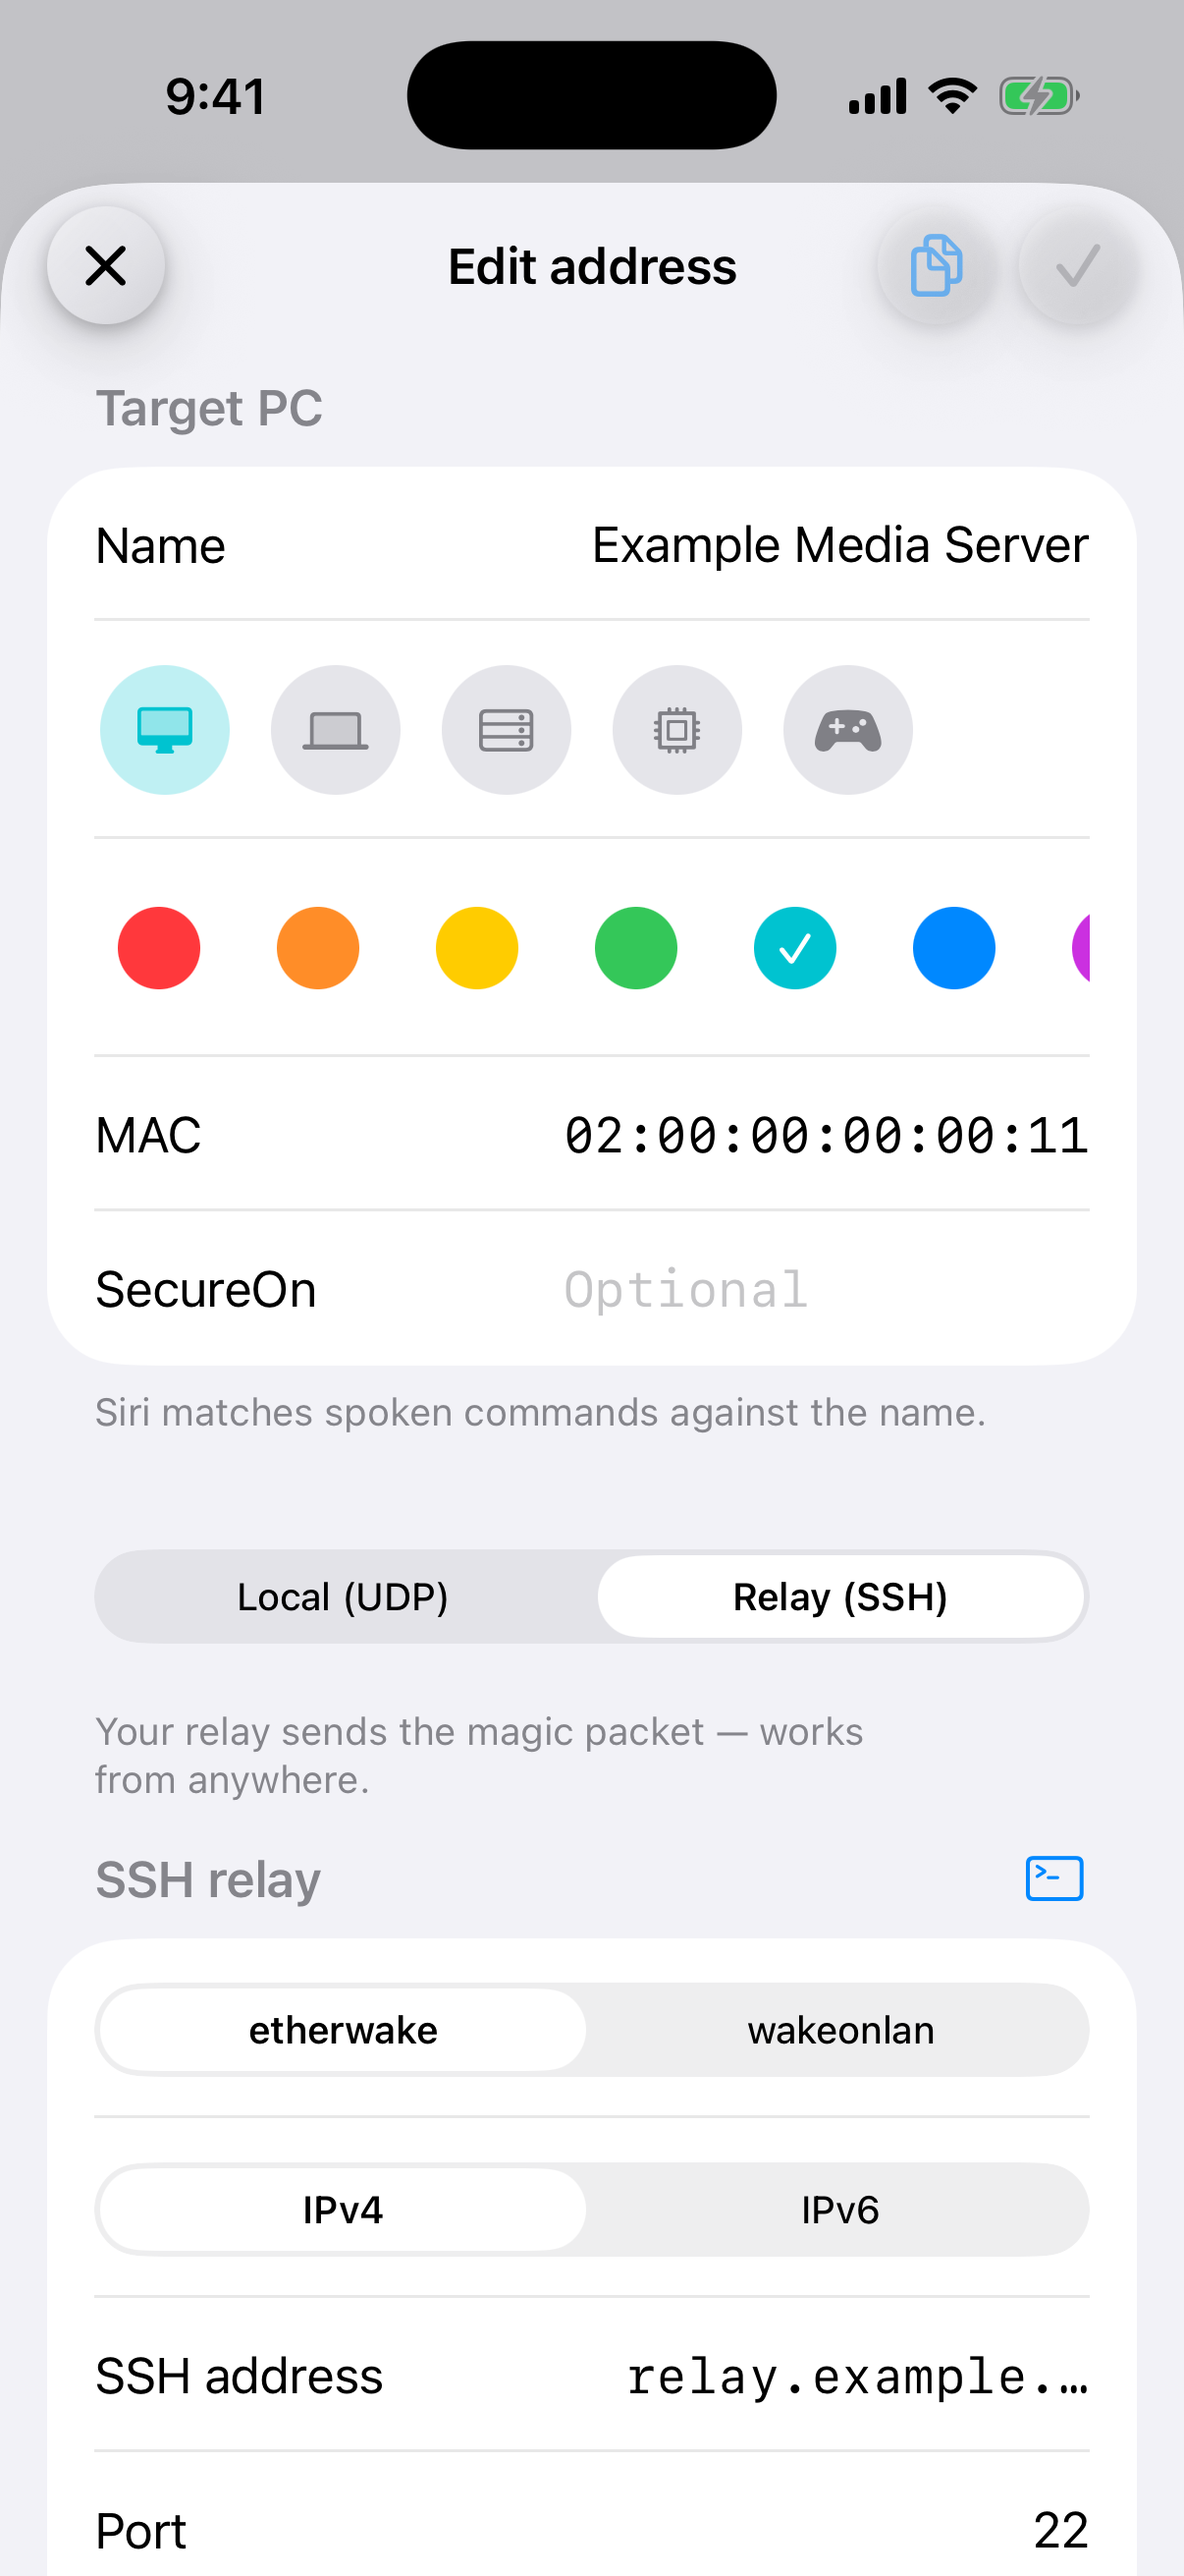
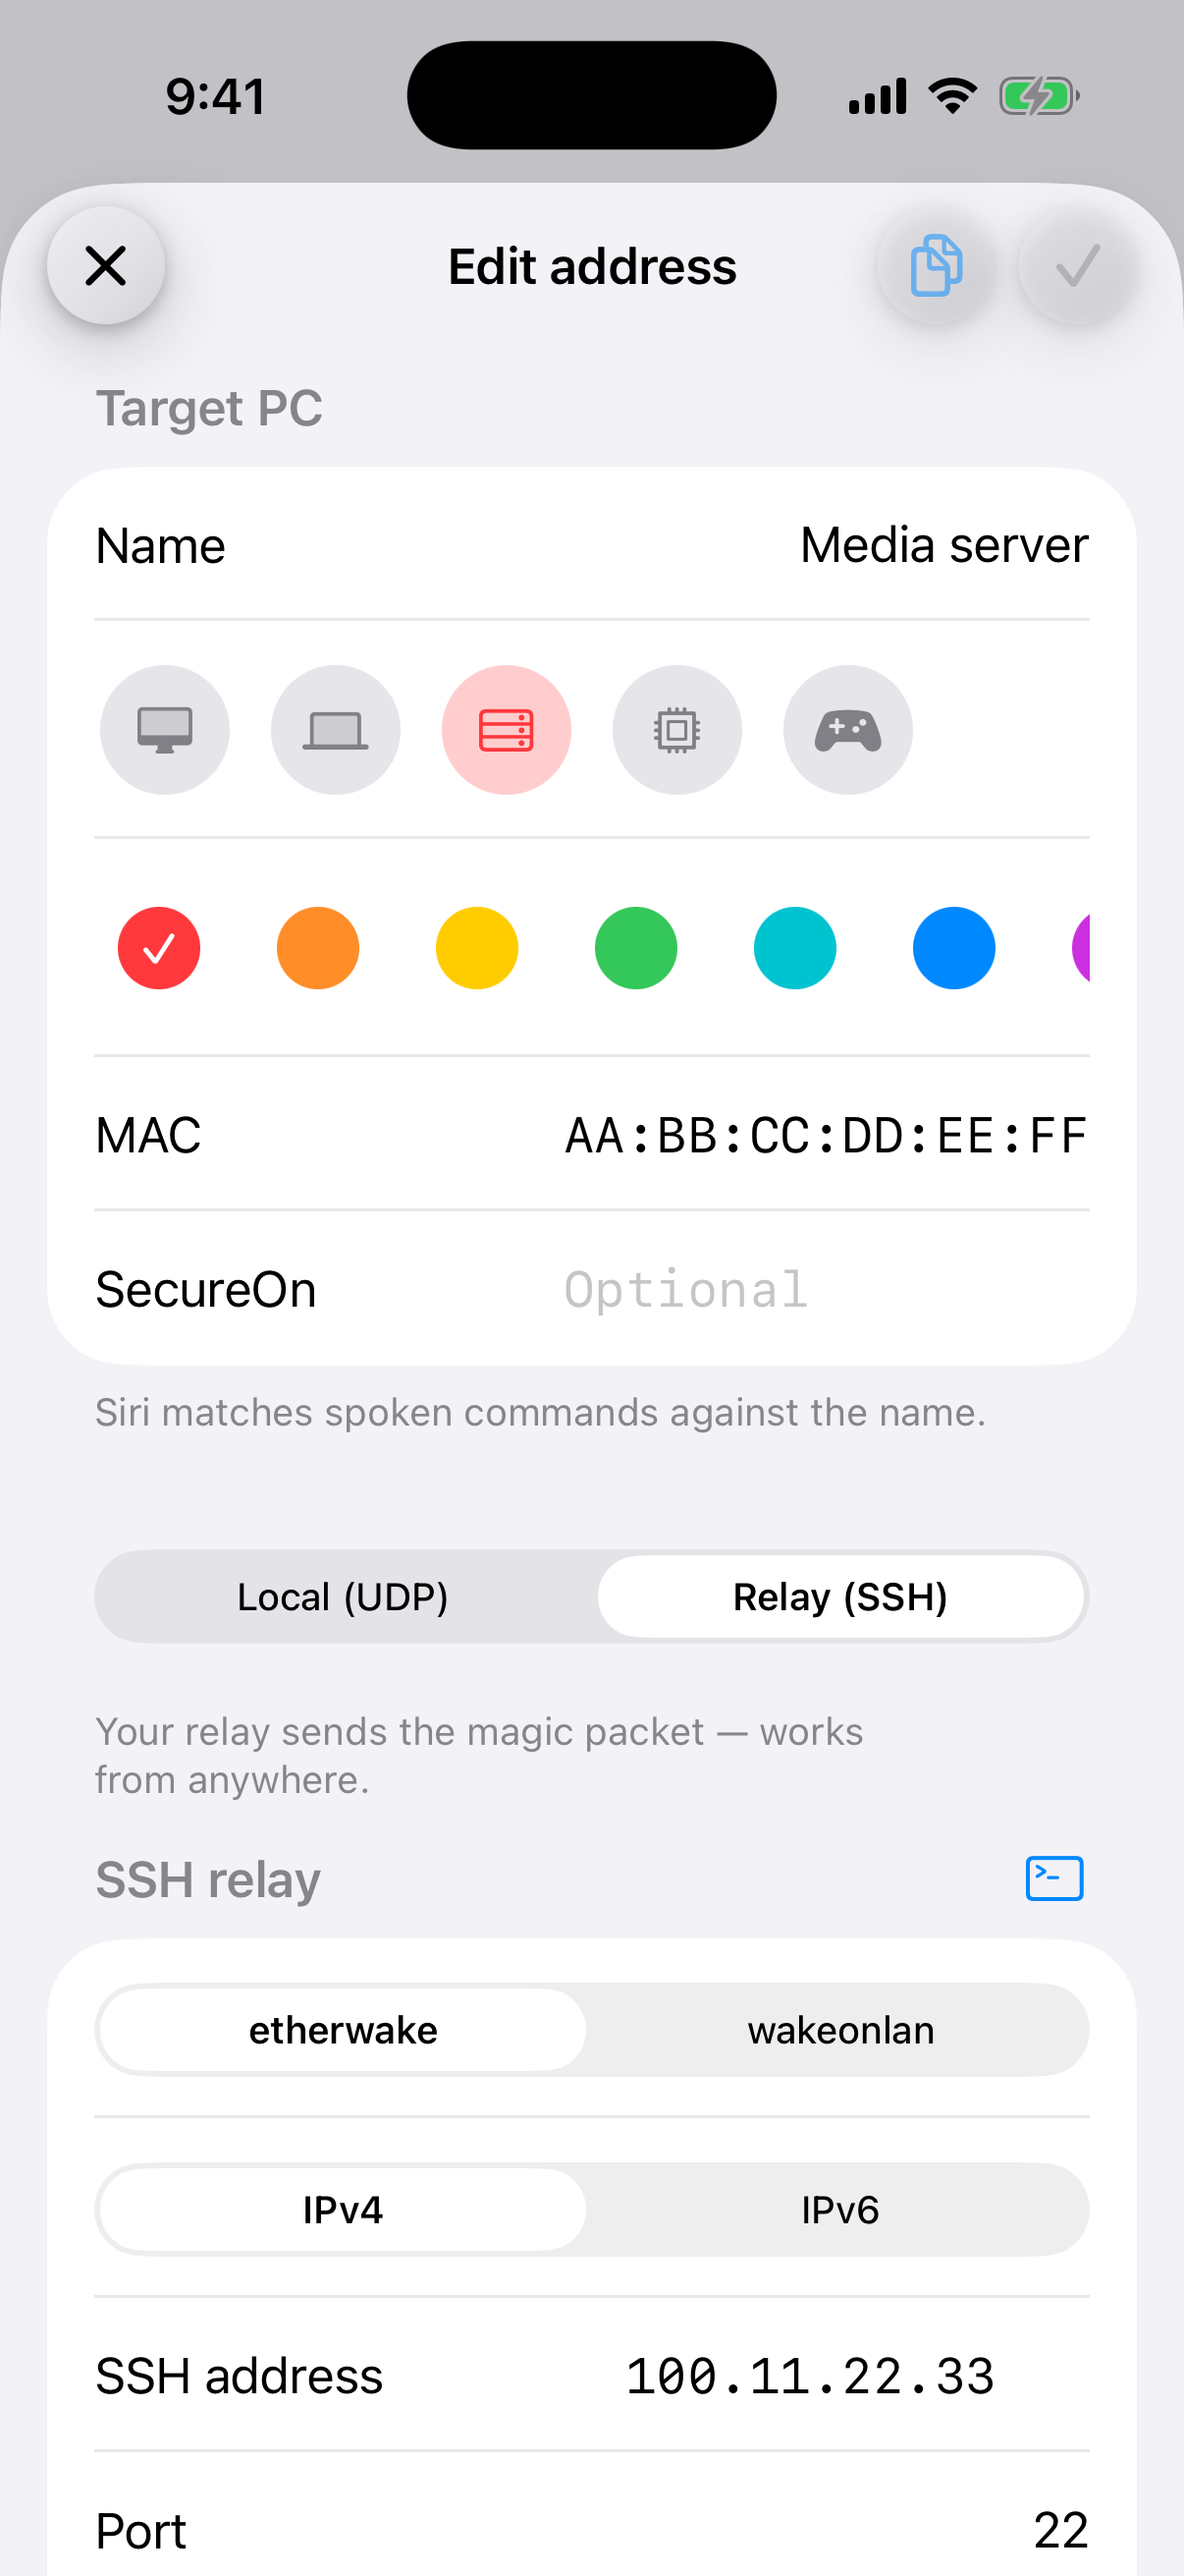
docs: refresh iPhone 17 app screenshots

diff --git a/README.md b/README.md
@@ -23,9 +23,9 @@ When your iPhone or iPad and the target computer share a local network, choose *
 
 <img src="images/direct-udp-broadcast.png" alt="An iPhone or iPad sends a Wake-on-LAN magic packet through the local network to the target computer." width="900">
 
-![Tailwake’s device list with an example local PC and two example relay-connected computers.](images/example-device-list.png)
+![Tailwake’s device list showing three fictional relay-connected target computers.](images/example-device-list.png)
 
-_The screenshot uses fictional example devices; the app’s list shows whether each computer uses a local or relay wake._
+_The screenshot uses fictional sample devices: Media server, PC, and Workstation._
 
 ## Wake while away from home
 
@@ -33,7 +33,7 @@ A router or small Linux computer on the target PC’s local network can act as a
 
 The relay receives the SSH connection from Tailwake and broadcasts the wake packet where the target computer can hear it.
 
-![Tailwake’s relay configuration form, showing fictional example values for a media server.](images/example-relay-setup.png)
+![Tailwake’s relay configuration form, showing fictional sample values for Media server.](images/example-relay-setup.png)
 
 ### Router as relay
 
